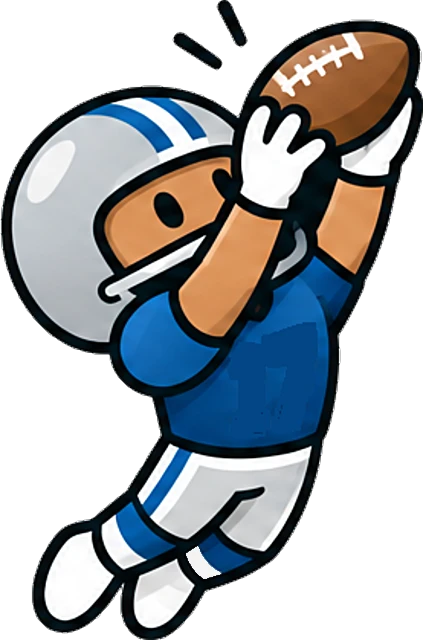
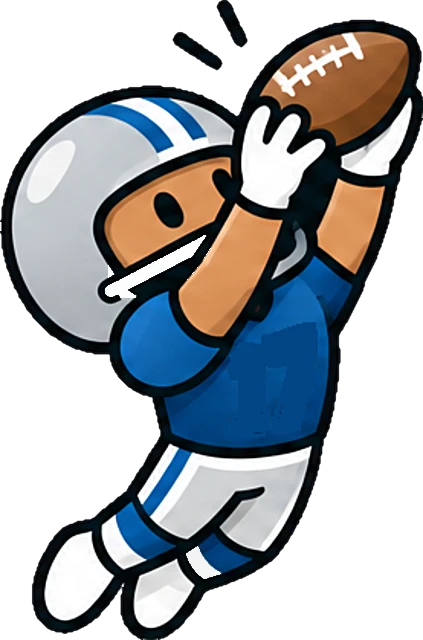
2.24.7: cards - no colour outside the outline, and the face masks finished

diff --git a/CHANGELOG.md b/CHANGELOG.md
@@ -20,6 +20,19 @@ CLAUDE.md.
 
 ## [Unreleased]
 
+## [2.24.7] - 2026-11-13
+
+Test site only.
+
+### Fixed
+- Cards: no colour outside the black outline. Enlarging the drawings left a hairline of light pixels round
+  every player, which the recolouring painted in the helmet colour as a dotted fringe. The rim of each sprite
+  is now pulled down to the outline's black when it is built.
+- Cards: the face masks 2.24.6 left unfinished. It whitened a square of helmet beside the mask on some poses
+  and left a helmet-coloured knot where bars cross on others; the bars are found more tightly now and the
+  knots go with them, and the sideways catch's single bar is whitened too. Both reported from the owner's
+  phone.
+
 ## [2.24.6] - 2026-11-13
 
 Test site only.
